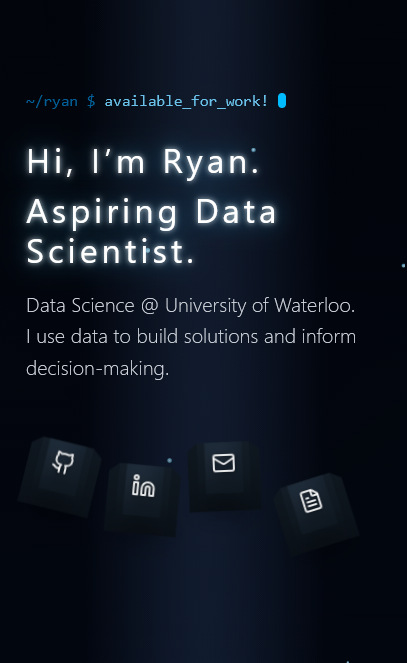
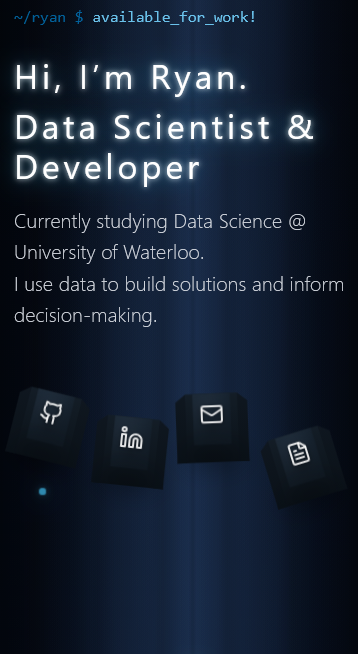
New images

diff --git a/frontend/src/components/sections/ProjectDetail.tsx b/frontend/src/components/sections/ProjectDetail.tsx
@@ -12,6 +12,17 @@ export default function ProjectDetail({
 }: ProjectDetailProps) {
   const project = myProjects.find((p) => p.id === projectId) || myProjects[0];
 
+  const renderTextBlocks = (text: string, className: string) => {
+    return text
+      .split(/\n\s*\n/g)
+      .filter((block) => block.trim().length > 0)
+      .map((block, i) => (
+        <p key={i} className={className}>
+          {block}
+        </p>
+      ));
+  };
+
   const scrollToSection = (id: string) => {
     const element = document.getElementById(id);
     if (element) {
@@ -97,9 +108,12 @@ export default function ProjectDetail({
               {project.title}
             </h1>
             <div className="h-1 w-20 bg-[#60a5fa]" />
-            <p className="text-lg text-gray-400 font-light leading-relaxed">
-              {project.description.summary}
-            </p>
+            <div className="space-y-4">
+              {renderTextBlocks(
+                project.description.summary,
+                "text-lg text-gray-400 font-light leading-relaxed whitespace-pre-line",
+              )}
+            </div>
 
             {/* MOBILE: show specs + TOC after hero/description */}
             <div className="lg:hidden space-y-8">{sidebarContent}</div>
@@ -118,9 +132,12 @@ export default function ProjectDetail({
 
                   {/* Main body (optional) */}
                   {section.body && (
-                    <p className="text-base text-gray-400 font-light leading-relaxed">
-                      {section.body}
-                    </p>
+                    <div className="space-y-4">
+                      {renderTextBlocks(
+                        section.body,
+                        "text-base text-gray-400 font-light leading-relaxed whitespace-pre-line",
+                      )}
+                    </div>
                   )}
 
                   {/* Subsections (optional) */}
@@ -135,9 +152,12 @@ export default function ProjectDetail({
                           <h3 className="text-lg font-medium text-white/90">
                             {subsection.heading}
                           </h3>
-                          <p className="text-sm text-gray-400 font-light leading-relaxed">
-                            {subsection.body}
-                          </p>
+                          <div className="space-y-3">
+                            {renderTextBlocks(
+                              subsection.body,
+                              "text-sm text-gray-400 font-light leading-relaxed whitespace-pre-line",
+                            )}
+                          </div>
                         </div>
                       ))}
                     </div>

diff --git a/frontend/src/data/project.ts b/frontend/src/data/project.ts
@@ -89,32 +89,25 @@ export const myProjects: Project[] = [
     title: "Personal Website",
     year: "2026",
     description: {
-      summary: paragraph(
-        "A space for others to explore my experience and learn a bit about me.",
-        "This site showcases my projects, experiments, work experience, and the thinking behind my work.",
-      ),
+      summary: `A space for others to learn a little bit about me. This site showcases my projects, experiments, work experience, and the thinking behind my work.`,
       sections: [
         {
           heading: "Design",
-          body: paragraph(
-            "Visually, I wanted something that felt both minimal and striking.",
-            "The design draws inspiration from the deep ocean with a dark theme,",
-            "smooth page transitions, and interactive 3D elements like floating",
-            "keyboard keys and animated particles. Every visual detail exists",
-            "to create an engaging experience that matches how I approach my work.",
-          ),
+          body: `Visually, I wanted a look that is minimal but still has character. The design uses a dark theme, floating particles, and soft blue ambient light to create an atmosphere that feels intentional without being overdone.
+
+I wanted the space to feel fluid, so details are kept subtle enough to ensure the experience stays fast and responsive.
+
+If you have ever played Hollow Knight, the Lifeblood menu was the main inspiration for the aesthetic.`,
         },
         {
-          heading: "Engineering",
-          body: paragraph(
-            "Built with React, TypeScript, and Vite to prioritize performance.",
-            "The site is fully responsive with type-safe routing through React Router.",
-            "SEO is baked in with dynamic meta tags, OG images, and structured sitemaps.",
-            "Accessibility is just as important to me as the visual design,",
-            "so the entire site is WCAG compliant with proper keyboard navigation,",
-            "ARIA labels, and semantic HTML.",
-          ),
-        },
+          heading: "Architecture",
+          body: `This site is structured as a component-driven React and TypeScript app built with Vite. Pages are built from reusable sections and shared components, so the design stays consistent while the content stays easy to update. 
+
+Navigation and modal flows are state-driven and route-aware, including URL-based project modal state for direct linking and proper browser history behavior. 
+
+The visual system is layered intentionally: an atmospheric background engine, motion-tuned card interactions, and deterministic particle effects balanced for performance
+
+Reliability was treated as a first-class concern throughout, with typed data models, error boundaries, SEO metadata, and accessibility foundations including semantic structure, keyboard support, and ARIA labeling.`,        },
       ],
     },
     technologies: [

diff --git a/frontend/src/components/TerminalBadge.tsx b/frontend/src/components/TerminalBadge.tsx
@@ -1,6 +1,6 @@
 import { useEffect, useState } from "react";
 
-const FULL_TEXT = "available_for_work!";
+const FULL_TEXT = "Looking for Fall 2026 Internships!";
 
 export default function TerminalBadge() {
   const [displayed, setDisplayed] = useState("");